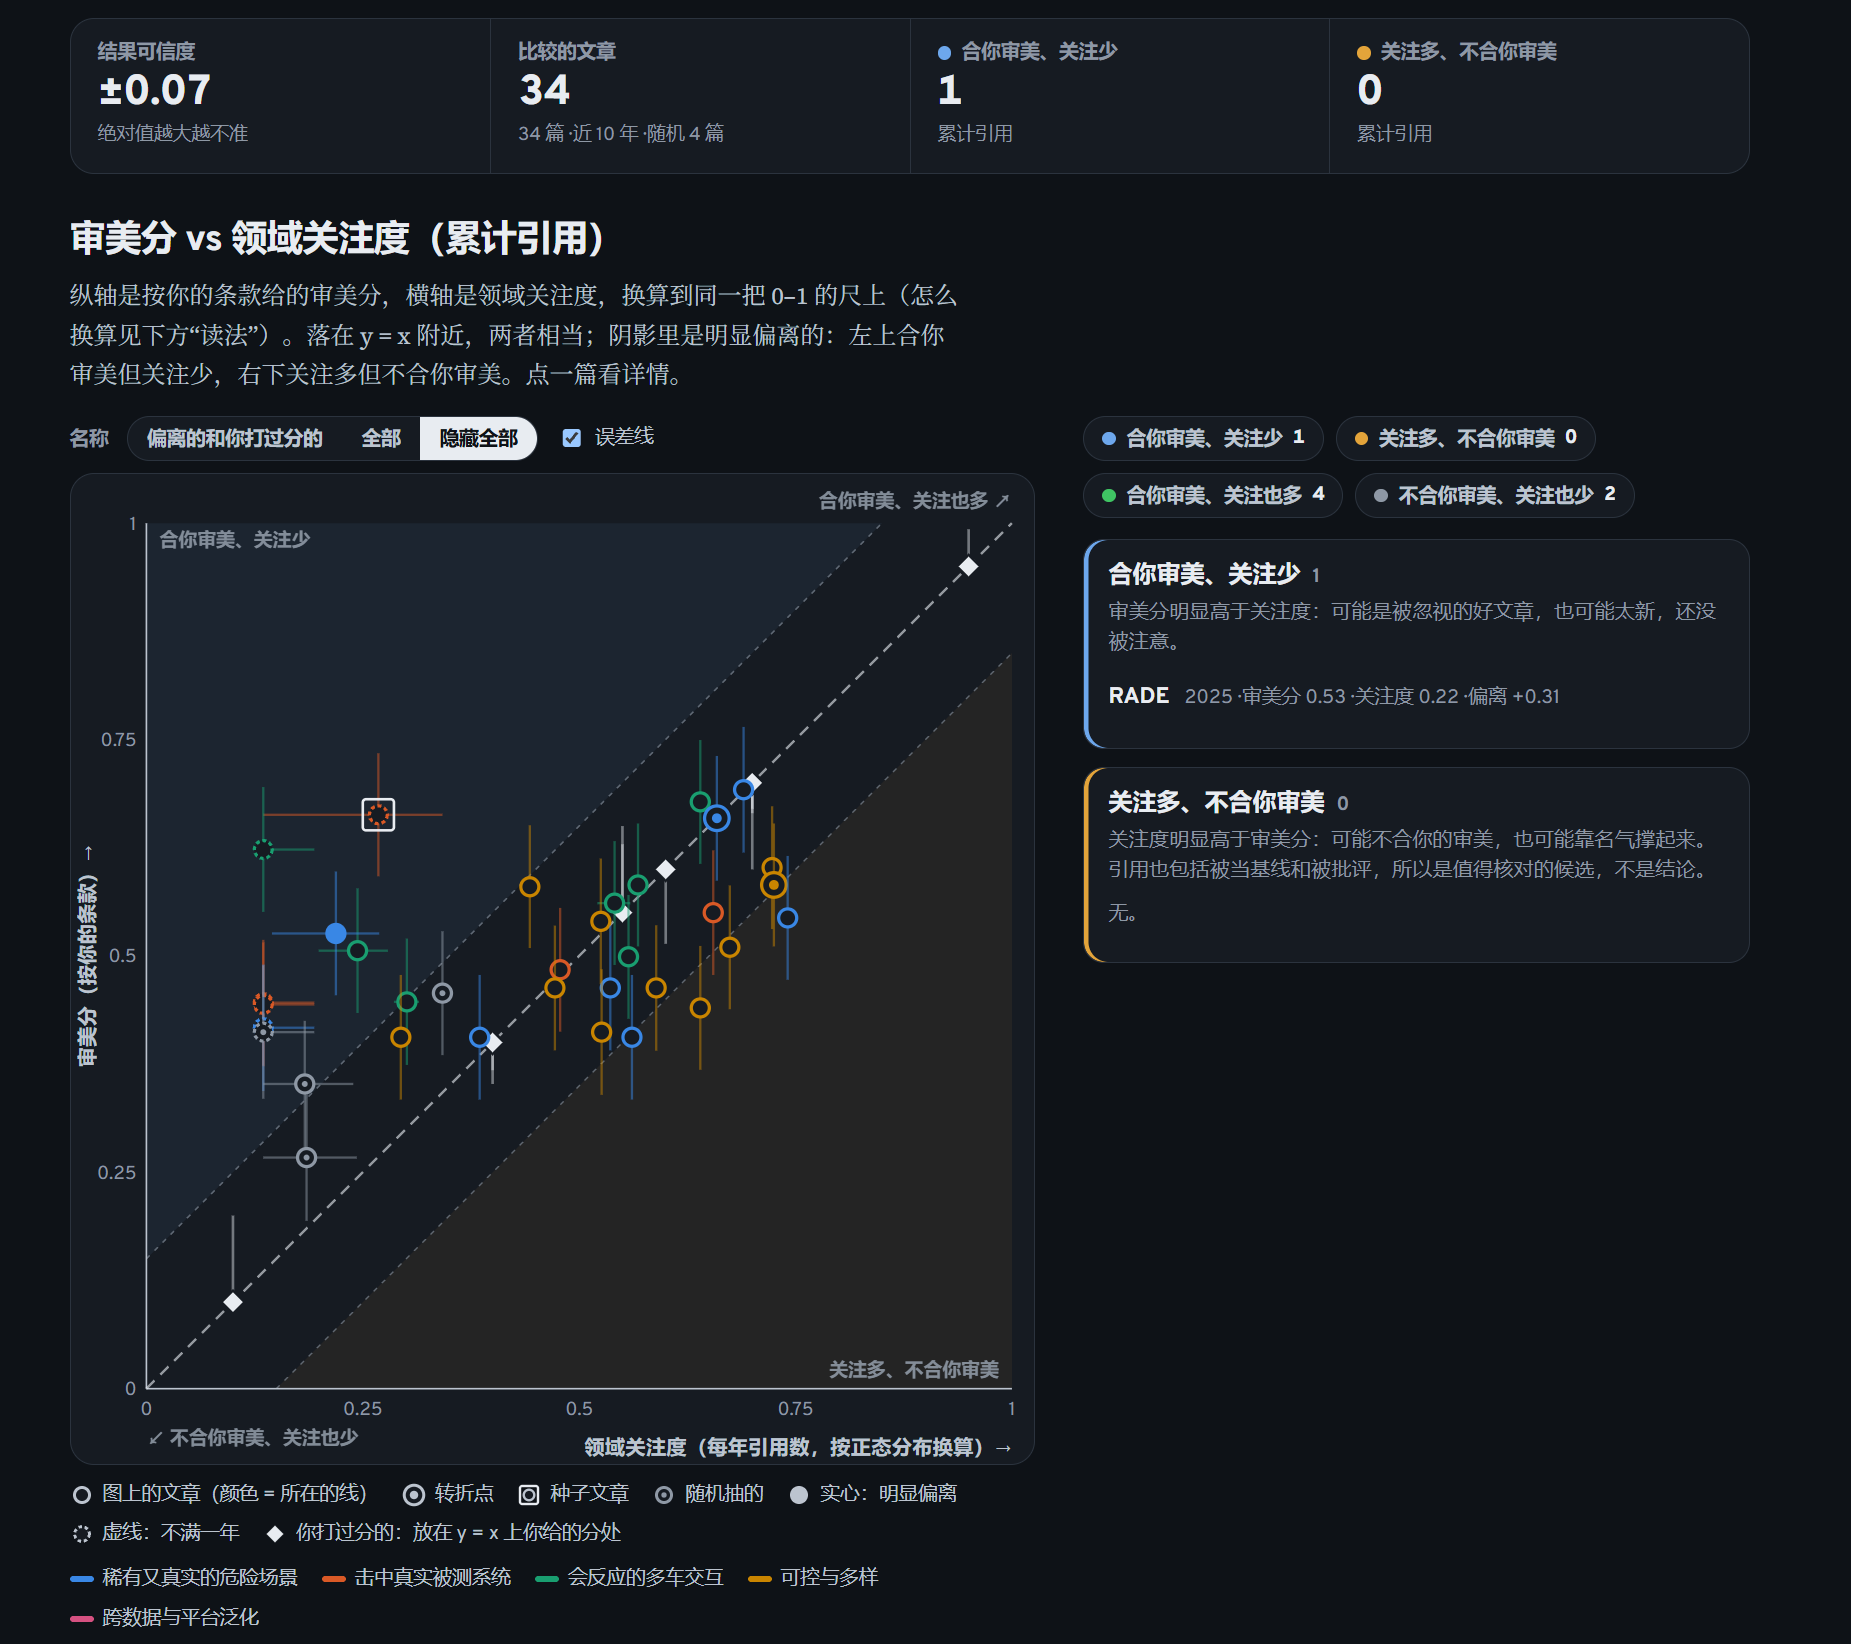
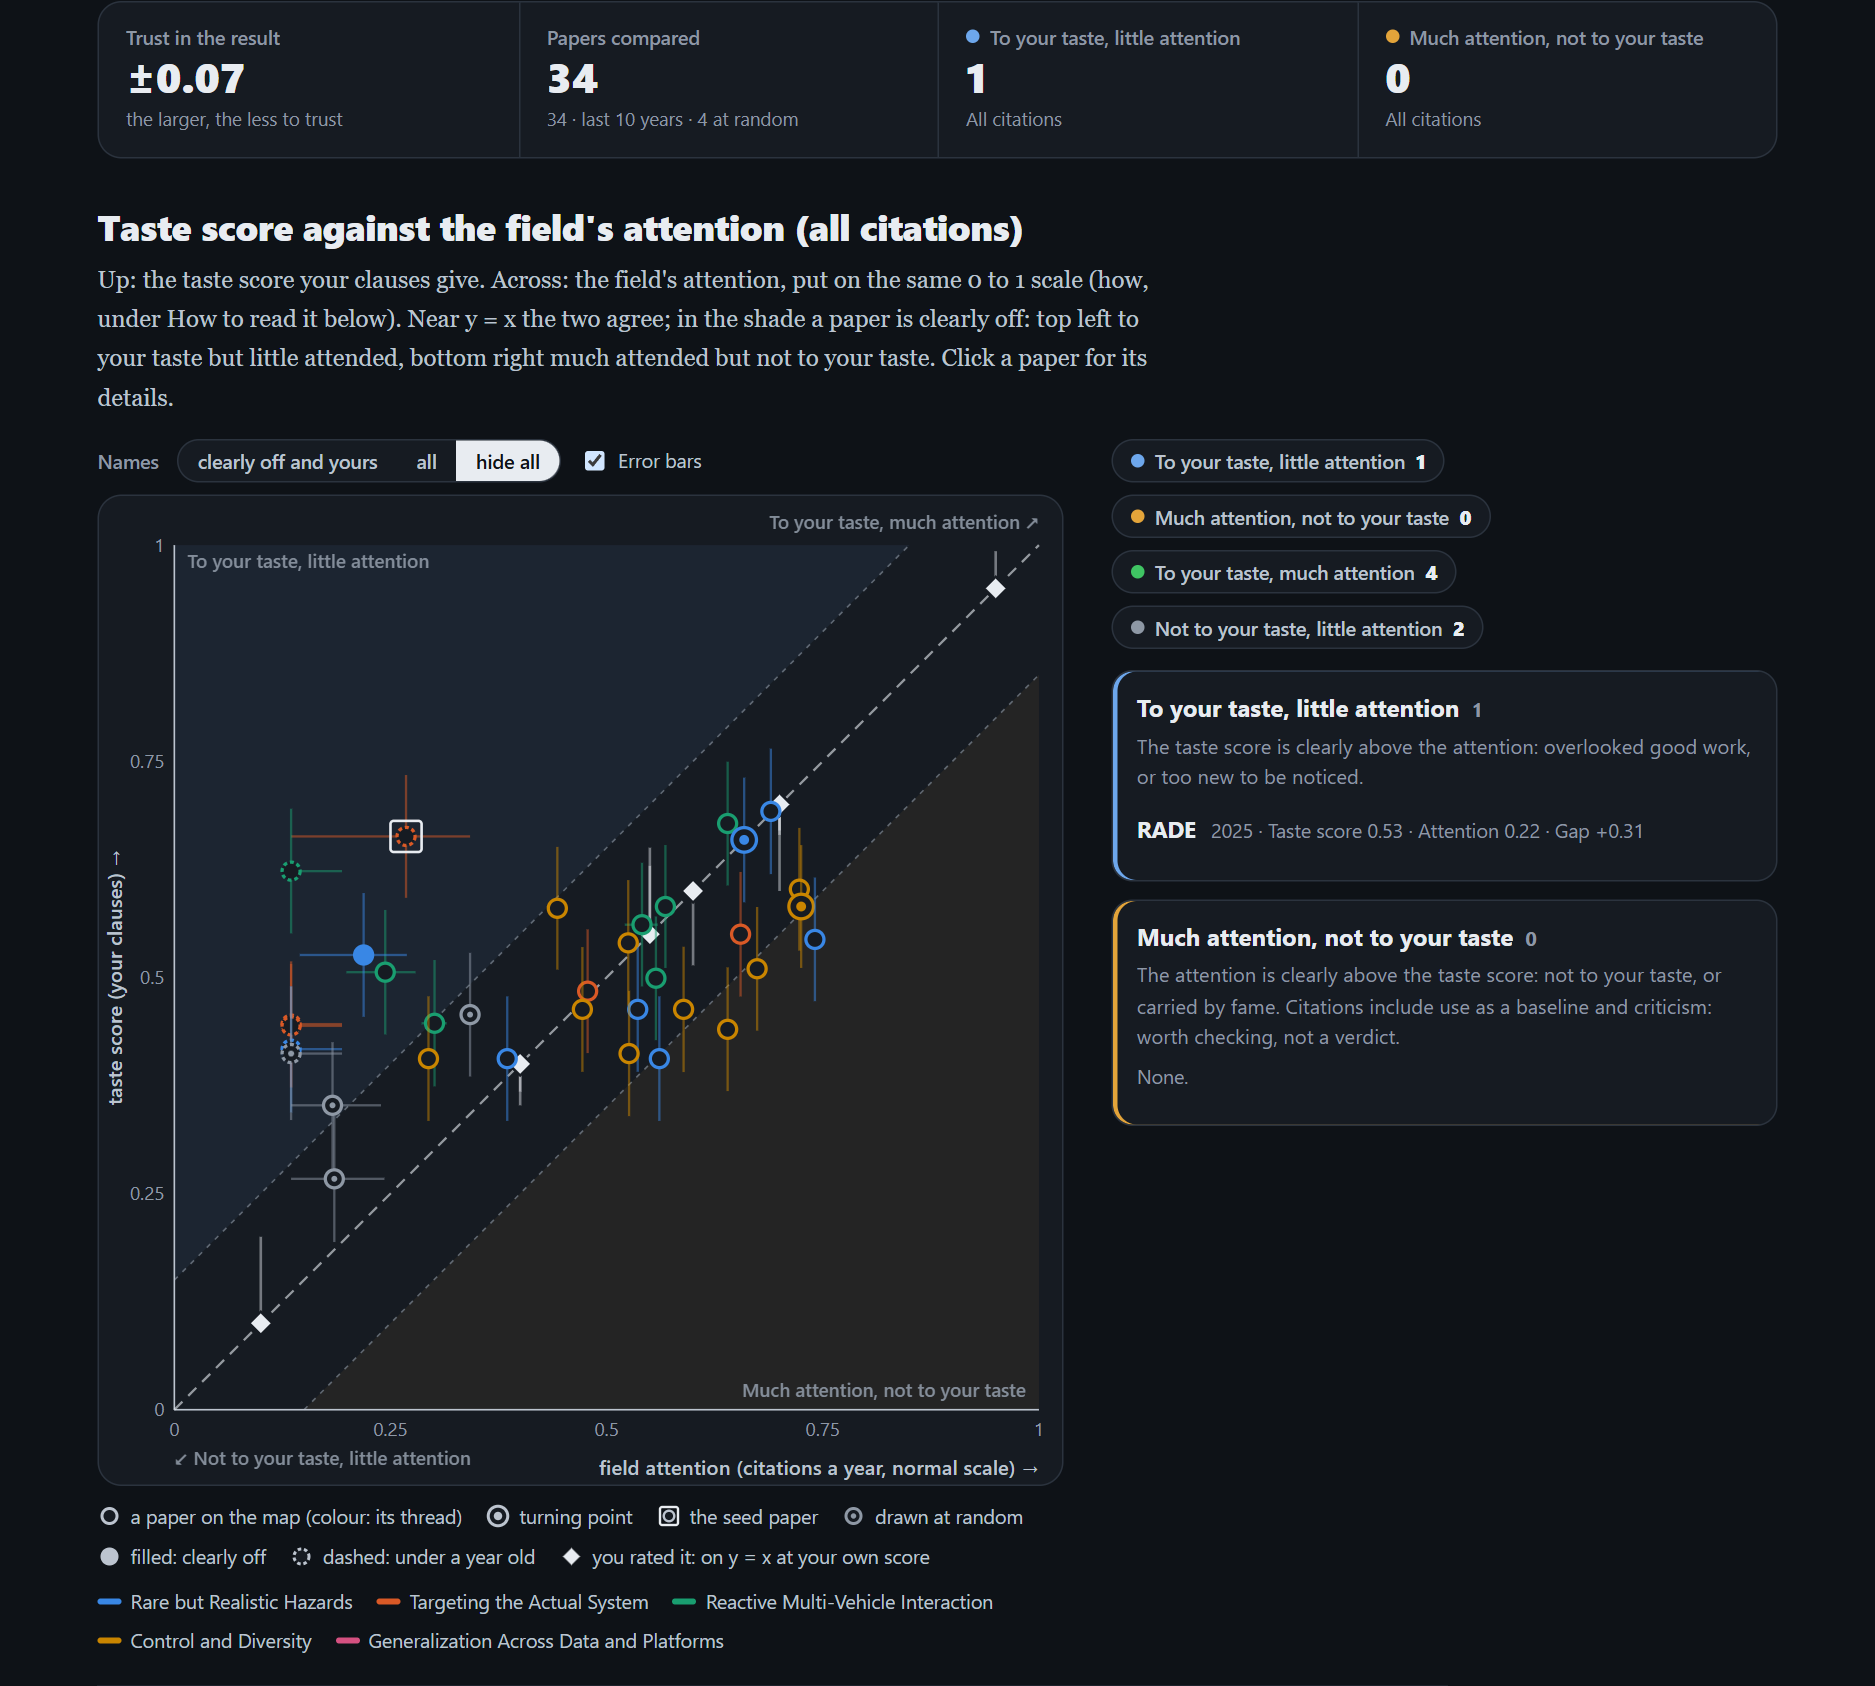
Update README with English report screenshots

diff --git a/README.md b/README.md
@@ -33,13 +33,15 @@ You need Python 3.9 or newer and no extra packages. Runs bill your Claude or Cha
 
 ## Read the report
 
-`report.html` has two parts, switched at the top left: **Lineage and logic**, and **Taste calibration**. The screenshots show a report written in Chinese (`--language zh-CN`) on adversarial traffic-scene generation; its parts are called 脉络与逻辑 and 审美校准.
+`report.html` has two parts, switched at the top left: **Lineage and logic**, and **Taste calibration**. The screenshots below show English views of a report on adversarial traffic-scene generation.
 
 ![Mechanism](images/3.png)
 
 **Mechanism.** The field's goal, and the core tension every work moves along (here: the more dangerous a scene, the further it is from real data). Below them, the insights that made progress possible, each with the works that brought it, and the driving forces (F1, F2, …): root causes no single paper can change, each with its kind (data, the field's goal, a mathematical fact, hardware, economics) and the threads it drives. The top line counts works, links, threads and forces; the bars show works per year.
 
-![Map](images/6.png)
+[![Lineage map with side branches expanded](images/6.jpg)](images/6.jpg)
+
+*The map with side branches expanded. Click the image to view it at full size.*
 
 **Map.** Each coloured line is a problem thread and each station a work, placed by date. The seed is the tall interchange every line passes through. Links run from earlier to later work and say what kind they are: resolves, extends, inspired, competes, applies, explains (challenges in red). Side branches are folded into the "+N" badge on their line; *Show* unfolds them. Hover a station for a summary; click it for its card: what it inherits, its move, its key insight, what it leaves open, and the works before and after it. *List* shows the same works as a table.
 
